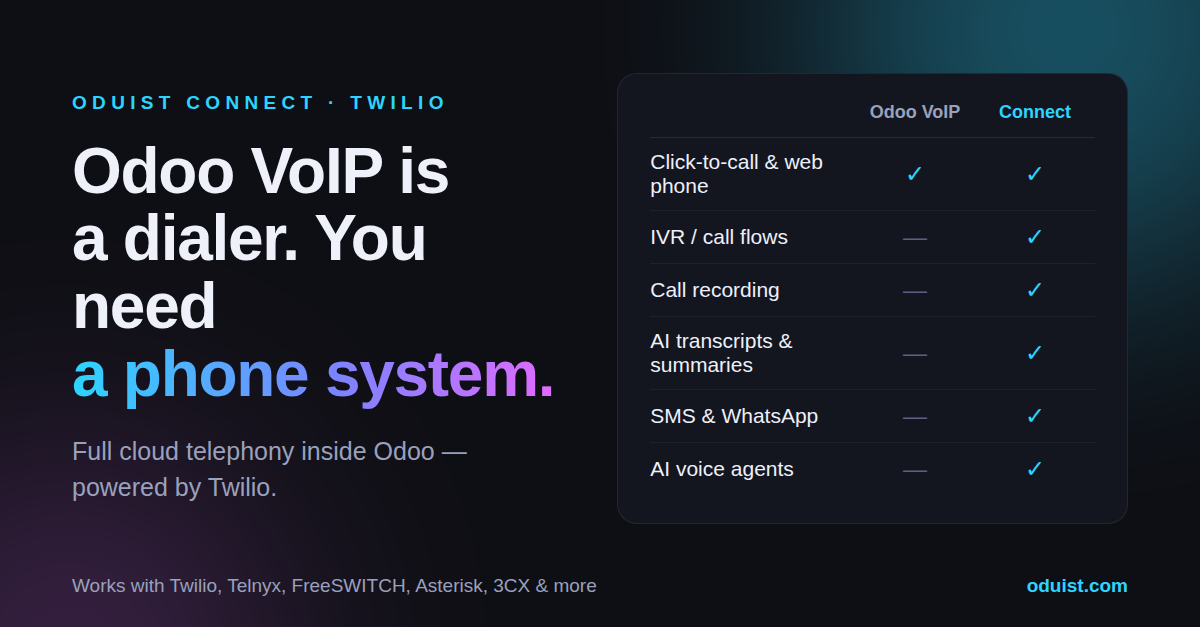
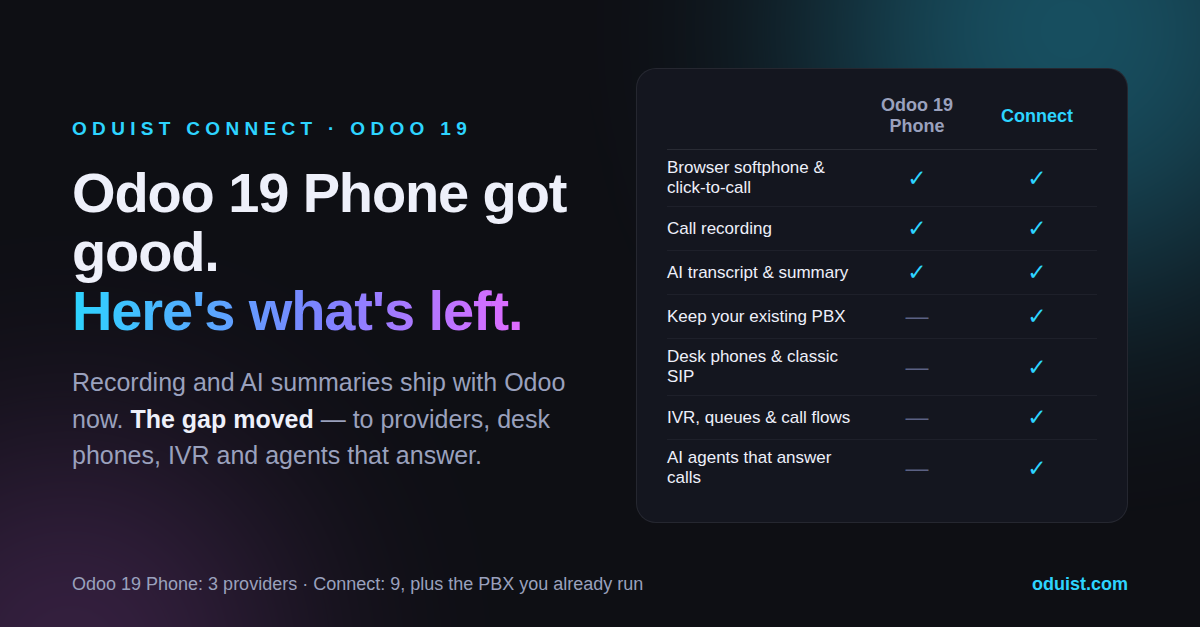
[misc] fix the Odoo comparison: Odoo 19 Phone has recording and transcripts
The B01 post claimed Odoo's built-in module has neither call recording nor AI
transcription. That was true of earlier releases and is false for Odoo 19, where
VoIP was renamed Phone and gained admin-configurable recording, OpenAI
transcription with an auto summary, and attended transfers.

Rewrites the post to concede those three rows and move the comparison to what
still differs: keeping an existing PBX, desk phones and classic SIP, IVR/queues
built in Odoo, AI agents that answer calls, and nine providers against three.
Records the correction and the two claims that must stay precise in the post's
notes, and adds the incident to the content plan as the worked example of why
competitor claims get re-verified per release.

diff --git a/marketing/posts/B01-odoo-voip-vs-connect.md b/marketing/posts/B01-odoo-voip-vs-connect.md
@@ -1,58 +1,88 @@
 ---
 id: B01
-title: Odoo VoIP vs Connect+Twilio
+title: Odoo 19 Phone vs Oduist Connect
 status: draft
 language: en
 platforms: [linkedin]
 publish_date:
 postiz_post_id:
 published_url:
-sources: [connect_twilio/docs/index.md, connect/docs/user/callflows.md]
+sources:
+  - https://www.odoo.com/documentation/19.0/applications/productivity/phone.html
+  - https://oduist.com/blog/odoo-experience-2025-ai-summaries-2/019-what-s-new-in-voip-23
+  - connect_twilio/docs/index.md
+  - connect/docs/user/callflows.md
+  - connect_asterisk/docs/admin/asterisk-setup.md
 ---
 
 ## Post
 
-Odoo's built-in VoIP is fine — if all you need is a dial button. 🎯
+Odoo 19 shipped call recording and AI transcripts in the Phone app. That's genuinely good — and it makes half of every "Odoo VoIP is just a dialer" slide obsolete, including one of ours. 🙂
 
-But "our phones" usually means more: an IVR menu, call recording, SMS follow-ups, and knowing what was said on every call.
+So let me redraw the line honestly.
 
-That's the gap **Oduist Connect + Twilio** closes, right inside Odoo:
+What Odoo 19 Phone now does well: a redesigned browser softphone, recording you can start and stop mid-call, OpenAI transcripts and summaries on the call record, attended transfers.
 
-📞 Browser phone with click-to-call — that part stays
-🌳 Multi-level IVR / call flows with speech input
-⏺ Call recording with in-browser playback
-🤖 AI transcripts & GPT summaries straight into the chatter
-💬 SMS & WhatsApp from the same interface
+Where **Oduist Connect** still goes further:
 
-And when you outgrow Twilio pricing? The same platform runs on Telnyx, self-hosted FreeSWITCH or your existing PBX. Your call history stays.
+🔌 Your existing PBX keeps running — Asterisk, FreePBX or 3CX
+☎ Desk phones and classic SIP — Odoo Phone needs SIP over WebSocket
+🌳 IVR, ring groups and queues, built in Odoo forms
+🤖 AI voice agents that answer the phone, open tickets and take orders
+🌍 Nine providers instead of three, self-hosted included
 
-What's the one phone feature you miss most in Odoo? 👇
+If recording and transcripts are all you need, use Odoo's. Really — it's built in and it works.
 
-#Odoo #Twilio #VoIP #CRM
+If your phone system has to survive contact with a real PBX, that's where we start.
+
+Which of these do you actually need? 👇
+
+#Odoo #Odoo19 #VoIP #Telephony
 
 ## Card
 
 ```json
 {
   "template": "comparison",
-  "kicker": "Oduist Connect · Twilio",
-  "headline": "Odoo VoIP is a dialer.",
-  "headline_grad": "You need a phone system.",
-  "lede": "Full cloud telephony inside Odoo — powered by Twilio.",
-  "columns": ["Odoo VoIP", "Connect"],
+  "kicker": "Oduist Connect · Odoo 19",
+  "headline": "Odoo 19 Phone got good.",
+  "headline_grad": "Here's what's left.",
+  "lede": "Recording and AI summaries ship with Odoo now. *The gap moved* — to providers, desk phones, IVR and agents that answer.",
+  "columns": ["Odoo 19 Phone", "Connect"],
   "rows": [
-    {"f": "Click-to-call & web phone", "m": ["✓", "✓"]},
-    {"f": "IVR / call flows", "m": ["—", "✓"]},
-    {"f": "Call recording", "m": ["—", "✓"]},
-    {"f": "AI transcripts & summaries", "m": ["—", "✓"]},
-    {"f": "SMS & WhatsApp", "m": ["—", "✓"]},
-    {"f": "AI voice agents", "m": ["—", "✓"]}
+    {"f": "Browser softphone & click-to-call", "m": ["✓", "✓"]},
+    {"f": "Call recording", "m": ["✓", "✓"]},
+    {"f": "AI transcript & summary", "m": ["✓", "✓"]},
+    {"f": "Keep your existing PBX", "m": ["—", "✓"]},
+    {"f": "Desk phones & classic SIP", "m": ["—", "✓"]},
+    {"f": "IVR, queues & call flows", "m": ["—", "✓"]},
+    {"f": "AI agents that answer calls", "m": ["—", "✓"]}
   ],
-  "footer": "Works with Twilio, Telnyx, FreeSWITCH, Asterisk, 3CX & more"
+  "footer": "Odoo 19 Phone: 3 providers · Connect: 9, plus the PBX you already run"
 }
 ```
 
 ## Notes
 
-Before publishing: re-check the "Odoo VoIP" column against the current Odoo 19
-release so the comparison stays accurate.
+**This post was corrected after the first draft got it wrong.** The original
+claimed Odoo's built-in module has no recording and no transcription. That was
+true of earlier releases and is false for Odoo 19, where VoIP was renamed
+**Phone** and gained admin-configurable call recording (start/stop mid-call),
+OpenAI transcription with an auto summary stored on the call, and attended
+transfers.
+
+Verified 2026-09 against the Odoo 19 Phone documentation and our own blog write-up
+(both listed in `sources`). Re-verify before publishing: Odoo ships fast and the
+concession rows are the ones that make the rest of the card credible.
+
+Two claims to keep precise in the comments:
+
+- **Provider count.** Odoo Phone documents Axivox, OnSIP and DIDWW, plus custom
+  providers that speak SIP over WebSocket. The "classic SIP-only endpoints won't
+  work in the browser" limitation is what the desk-phone row rests on.
+- **IVR and queues.** Odoo Phone itself does not build them; with Axivox you
+  configure dial plans in Axivox's own console. Say "built in Odoo forms" — do
+  not say "Odoo has no IVR at all", because an Axivox customer will correct you.
+
+Naming: Odoo 19 calls it **Phone**, but people still search "Odoo VoIP". Use both
+terms across the article version of this post.

diff --git a/marketing/articles.md b/marketing/articles.md
@@ -42,7 +42,7 @@
 
 | # | Заголовок | Мысль / интент | Источник |
 |---|---|---|---|
-| B1 | **Odoo VoIP vs Oduist Connect: what the built-in module doesn't do** | ⭐ Уже написан пост. IVR, запись, AI, SMS. `COMM` | connect_twilio docs |
+| B1 | **Odoo 19 Phone vs Oduist Connect: where the gap actually is** | ⭐ Уже написан пост. ⚠ В Odoo 19 VoIP переименован в **Phone** и получил запись звонков и AI-транскрипцию — сравнивать надо по провайдерам, десктопным SIP-телефонам, IVR/очередям и AI-агентам, а НЕ по записи и транскриптам. `COMM` | docs Odoo 19 Phone + connect_twilio docs |
 | B2 | **Twilio vs Telnyx for Odoo: a practical comparison** | Цена, TwiML vs TeXML, у Telnyx — RCS и нативные AI-ассистенты. `COMM` | twilio + telnyx |
 | B3 | **FreeSWITCH vs Asterisk with Odoo: which self-hosted path** | Новый PBX под ключ vs «оставить существующий». `COMM` | freeswitch + asterisk |
 | B4 | **ElevenLabs vs Pipecat vs Dograh vs LiveKit: choosing an AI voice engine** | Хостед vs self-hosted, набор инструментов, ограничения. `COMM` | E-кластер |
@@ -359,3 +359,7 @@ I 15 · J 20 · K 14 · L 9 · M 6 · N 12 · O 6). По приоритетам:
   меняется вместе с кодом.
 - Не публикуйте сравнения с конкурентами (B) без перепроверки их актуальных
   возможностей — устаревшее сравнение бьёт по доверию сильнее, чем помогает.
+- **Пример, почему это правило существует:** первая версия B1 утверждала, что во
+  встроенном модуле Odoo нет записи и транскрипции. Для Odoo 19 это неверно.
+  Любое утверждение «у них этого нет» проверяйте по документации нужной версии
+  в день написания, а не по памяти.
